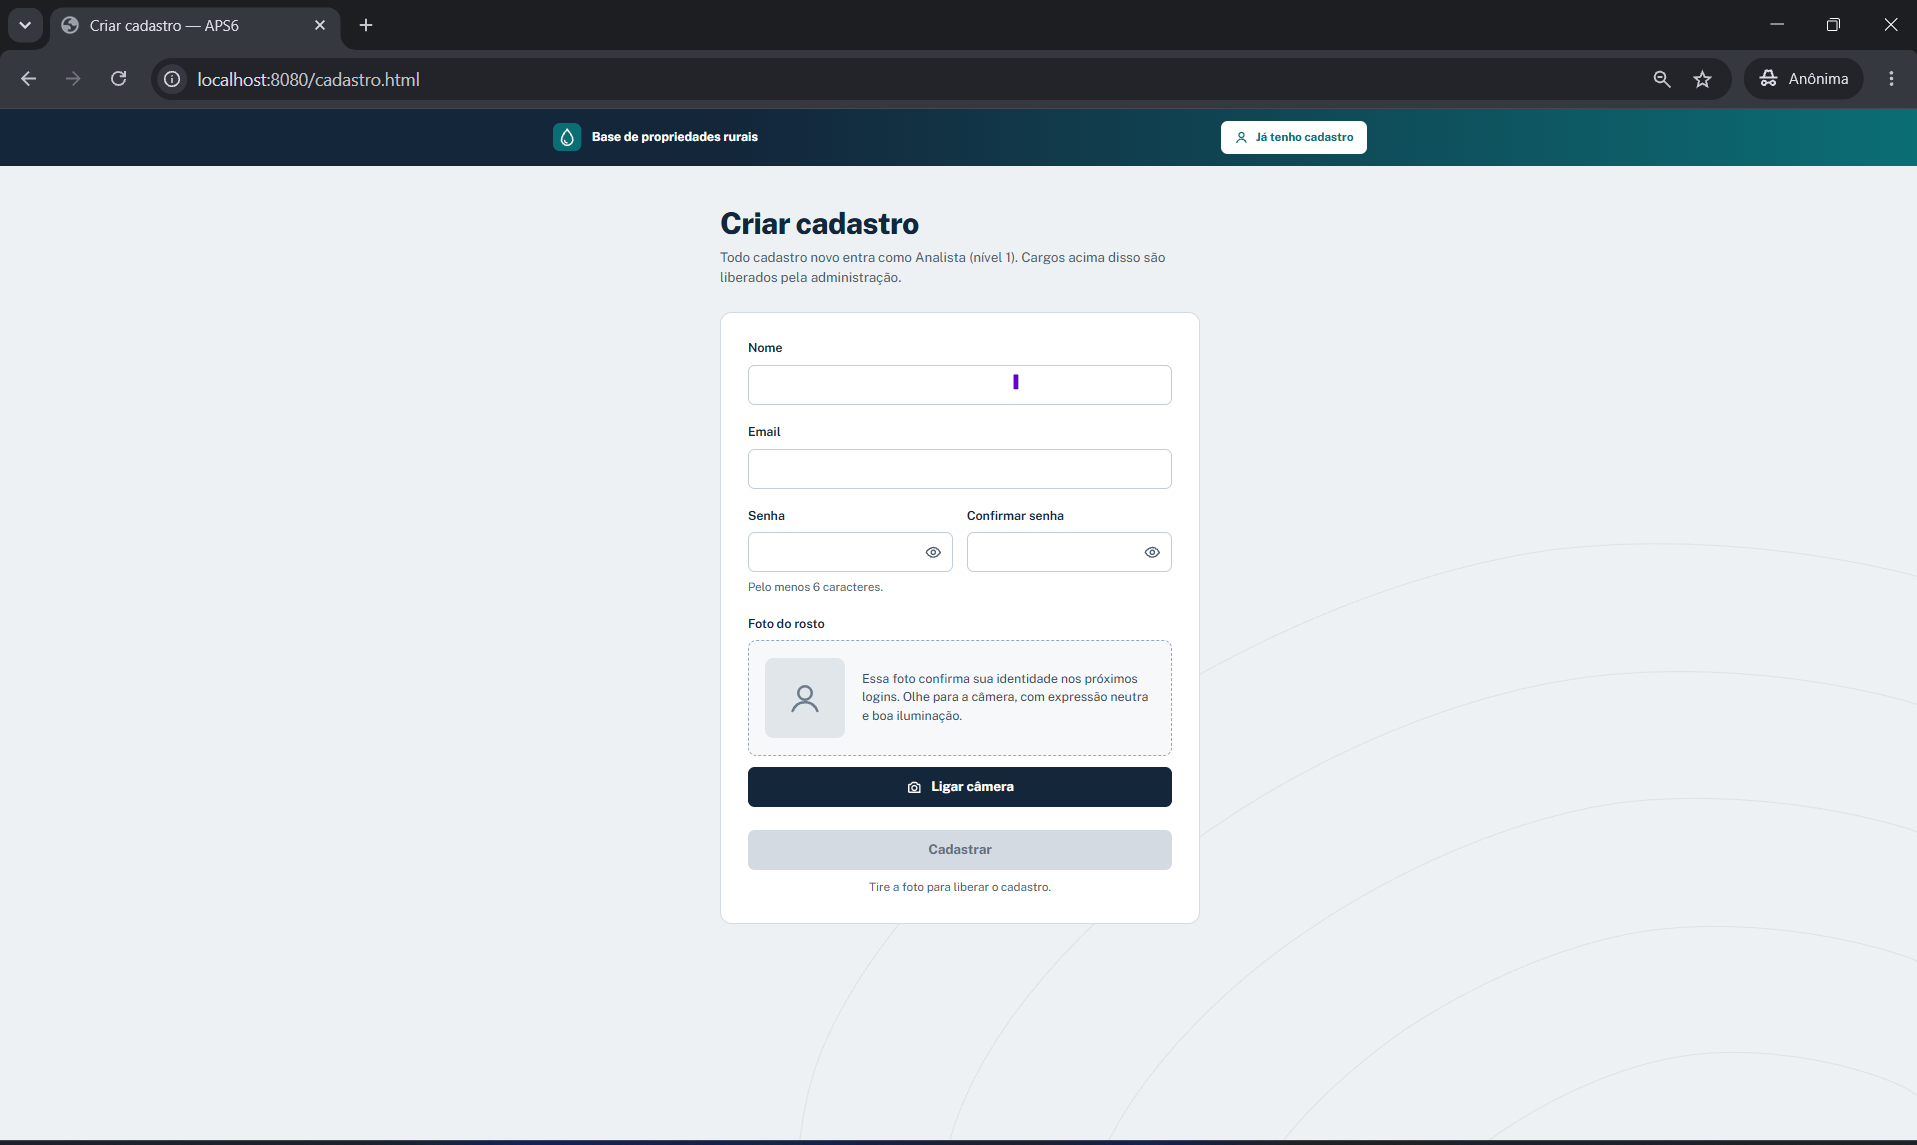
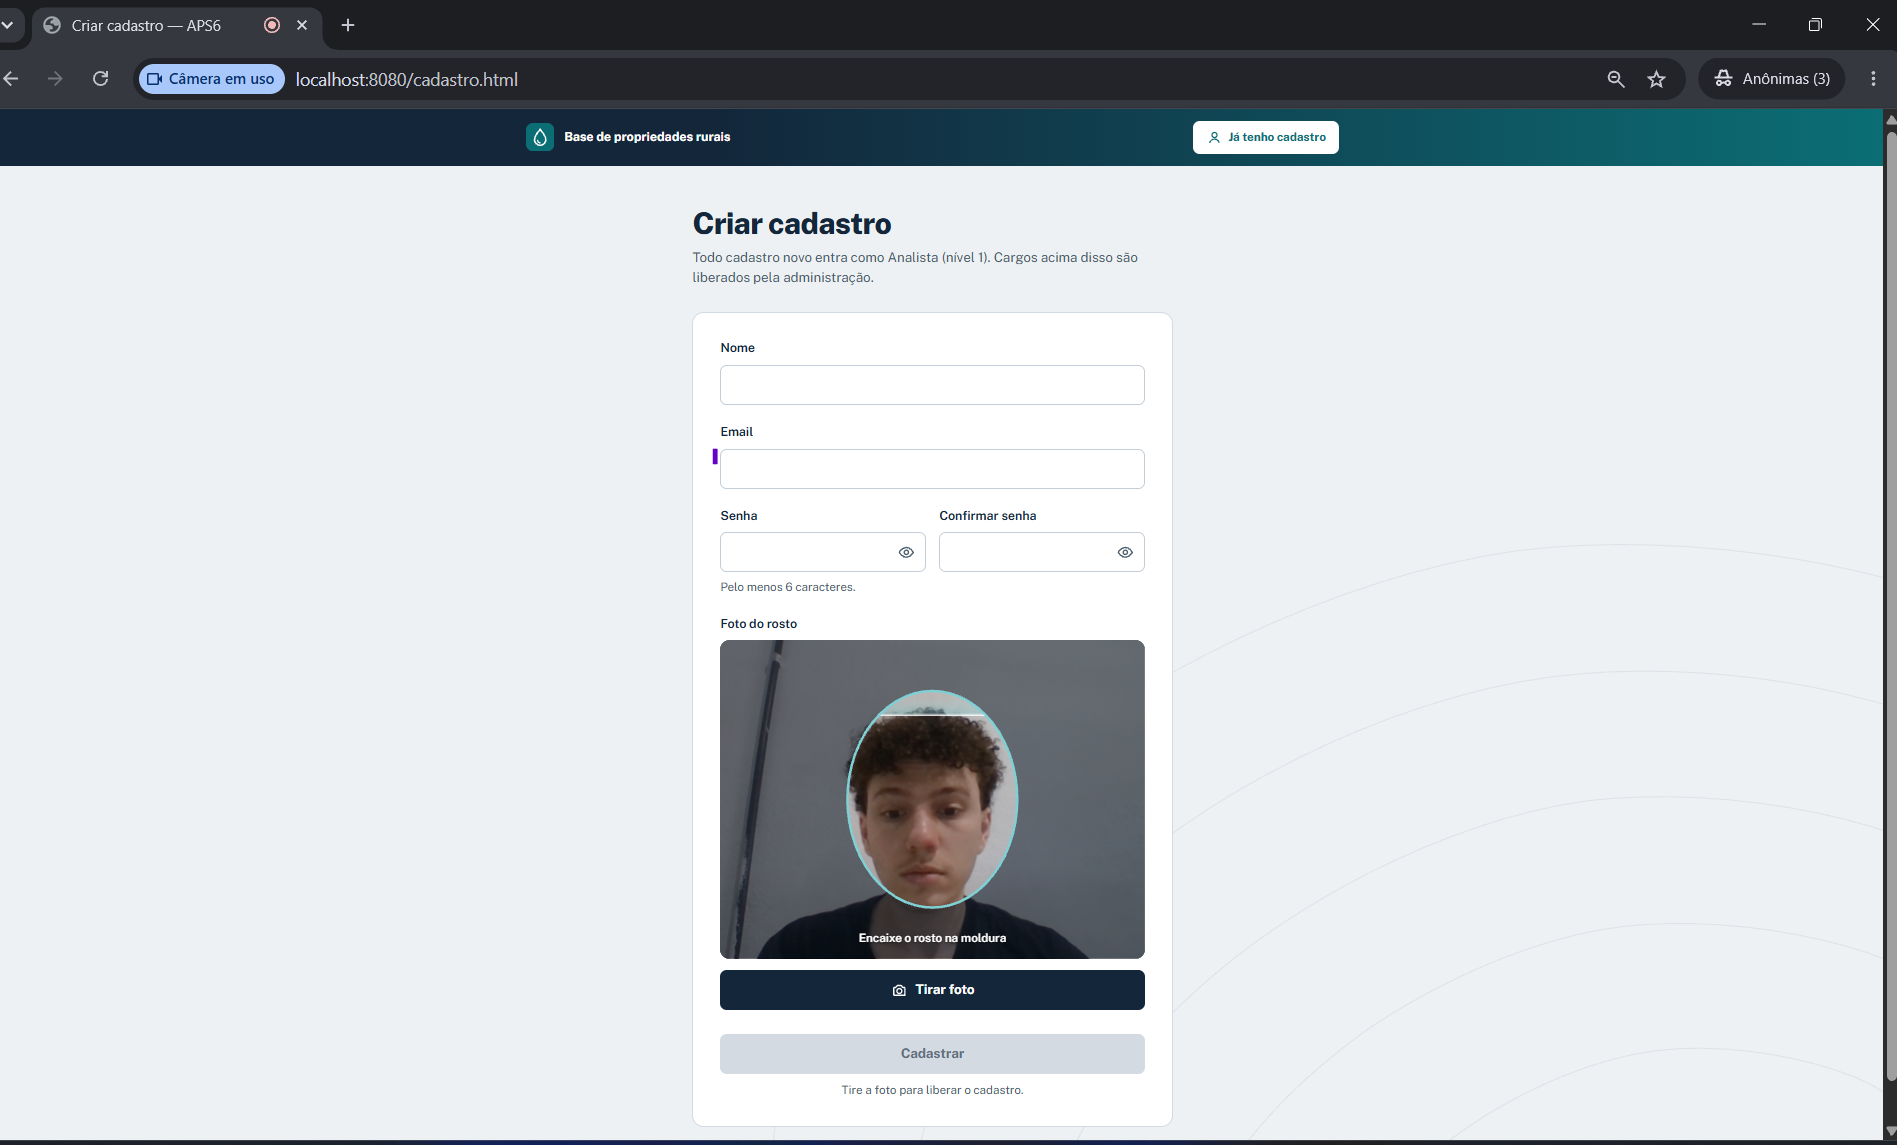
chore docs: ajustes finais dos prints e da documentação
- Print 03 refeito com a câmera ligada (moldura e varredura)
- Print 17 trocado
- Remove frase contraditória em docs/prints/README.md
- Aviso nos testes das etapas 3 e 5: feitos antes do novo visual
- Remove img/talhoes-fixa.svg (não é mais usada)

diff --git a/docs/markdown/resultados-testes-etapa5.md b/docs/markdown/resultados-testes-etapa5.md
@@ -9,7 +9,10 @@ Legenda da coluna **OK?**: ✅ bateu com o esperado · ❌ divergiu (descrever e
 
 Senha de todos os usuários de teste: `senha123` (anotada aqui de propósito: a Parte 7 confere que ela **não** aparece nos logs).
 "Foto válida" = rosto de frente, expressão neutra e boa luz.
+
 > obs: confira se a senha bate com a gerada no .sh, se não, troque aqui.
+
+> Testes feitos antes da reformulação visual do front (nov/2026). O comportamento é o mesmo; mudaram só textos e aparência (ex.: “Cancelar” agora é “Voltar ao email e senha”).
 
 ### Usuários de teste (criados na Parte 0, nesta ordem, para os ids baterem)
 

diff --git a/docs/prints/README.md b/docs/prints/README.md
@@ -1,7 +1,6 @@
 # Prints — evidências do funcionamento
 
 Prints do item 9 do relatório ("Apresentação do programa em funcionamento").
-Pasta fora do Git: contém o rosto do Nicolas.
 
 > **Sobre as imagens:** esta é a única pasta do repositório com fotos de rosto,
 > e todas mostram apenas o rosto do autor (Nicolas), publicado por decisão própria.

diff --git a/docs/markdown/resultados-testes-etapa3.md b/docs/markdown/resultados-testes-etapa3.md
@@ -7,6 +7,8 @@
 
 Legenda da coluna **OK?**: ✅ bateu com o esperado · ❌ divergiu (descrever em Observações)
 
+> Testes feitos antes da reformulação visual do front (nov/2026). O comportamento é o mesmo; mudaram só textos e aparência (ex.: “Cancelar” agora é “Voltar ao email e senha”).
+
 ---
 
 ## Parte 0 — Preparação
